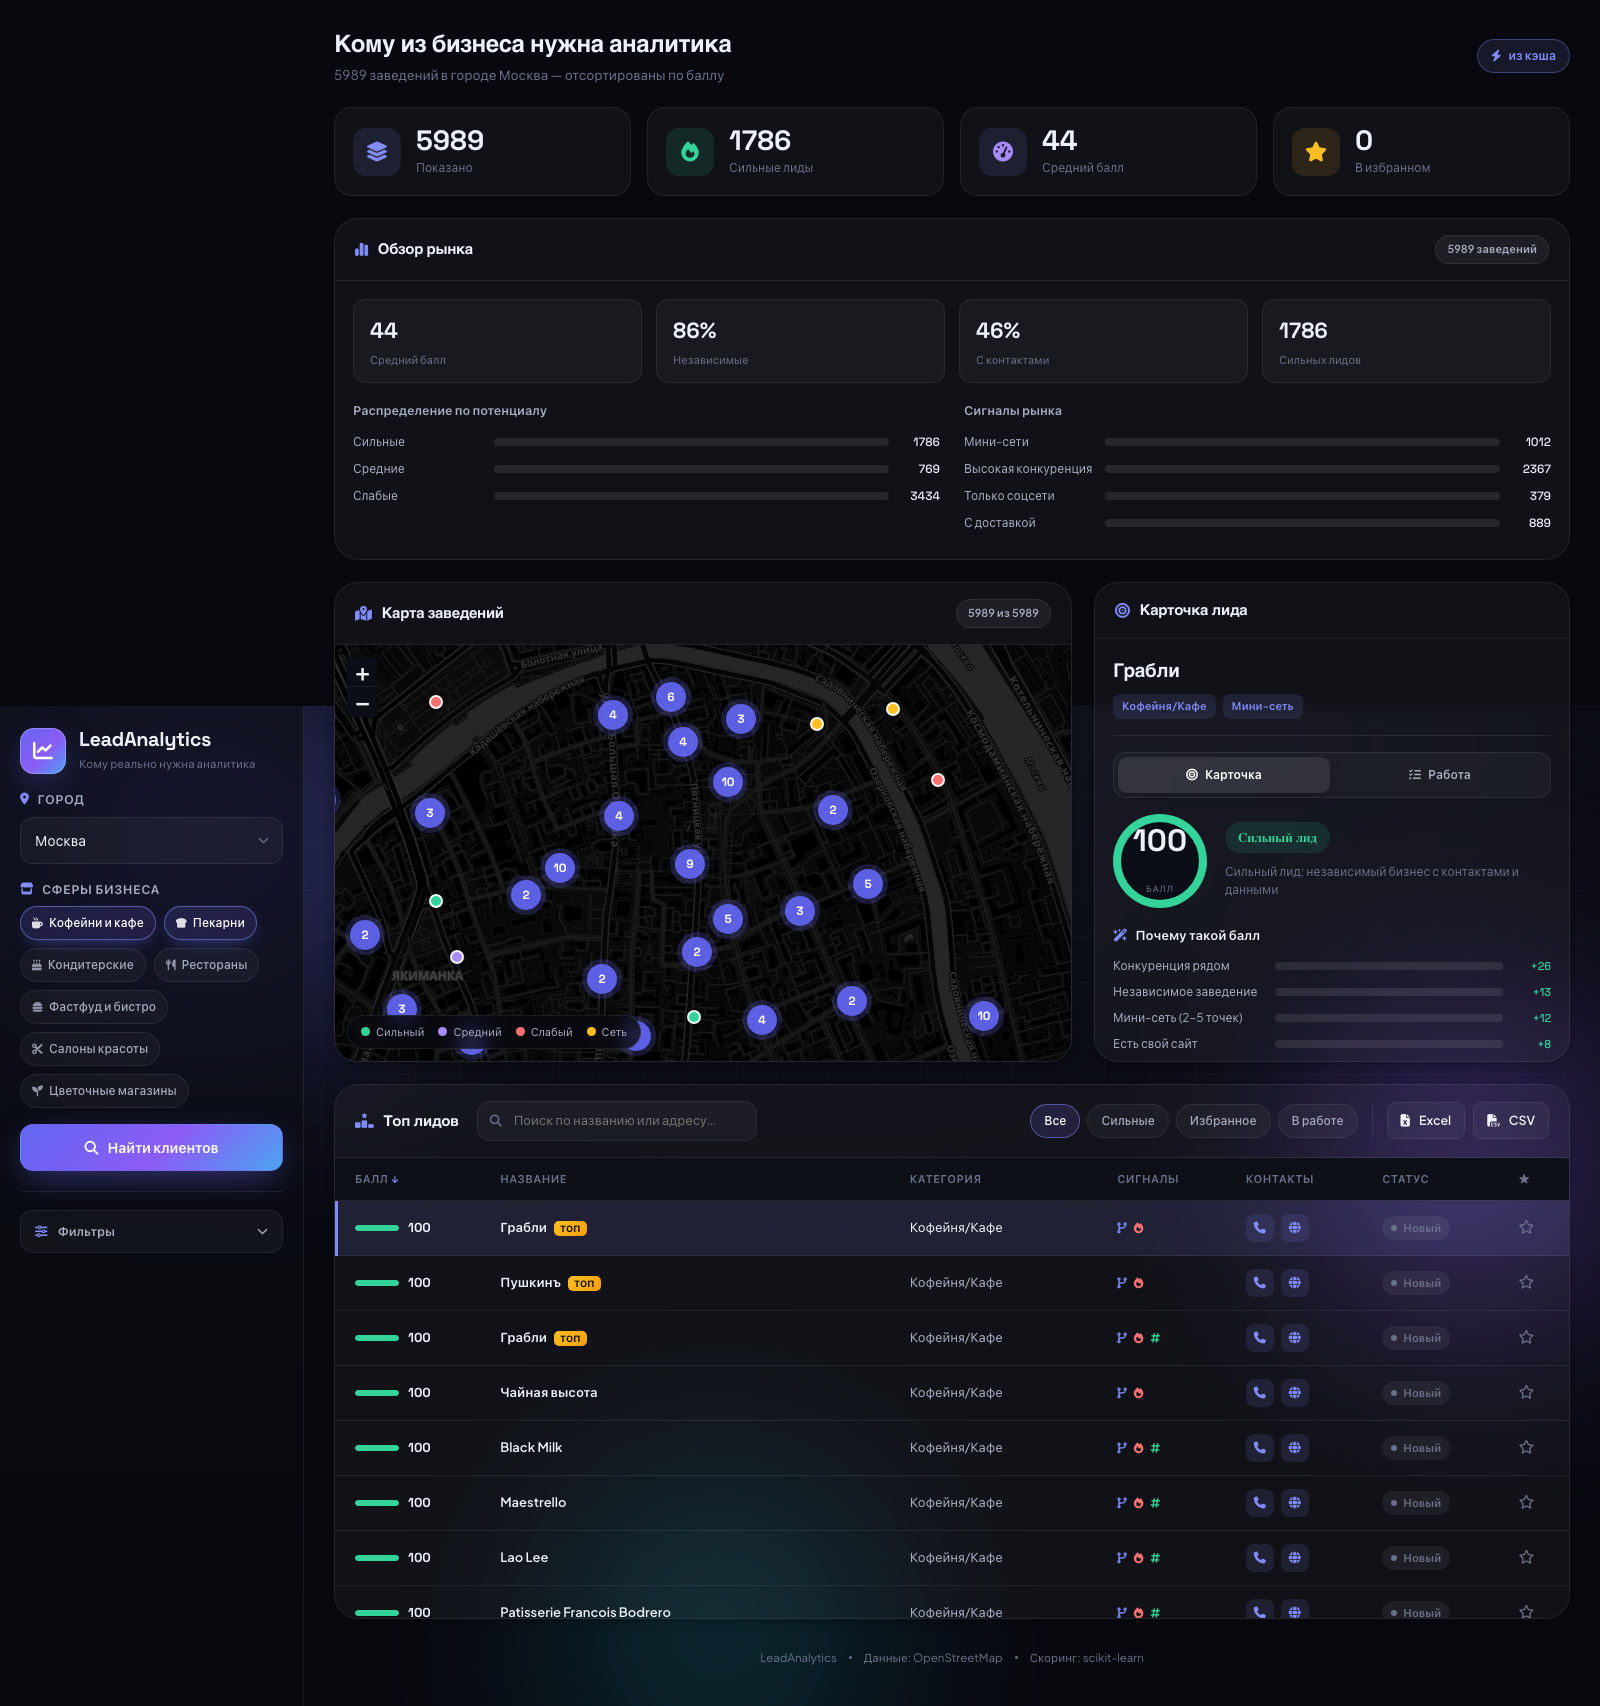
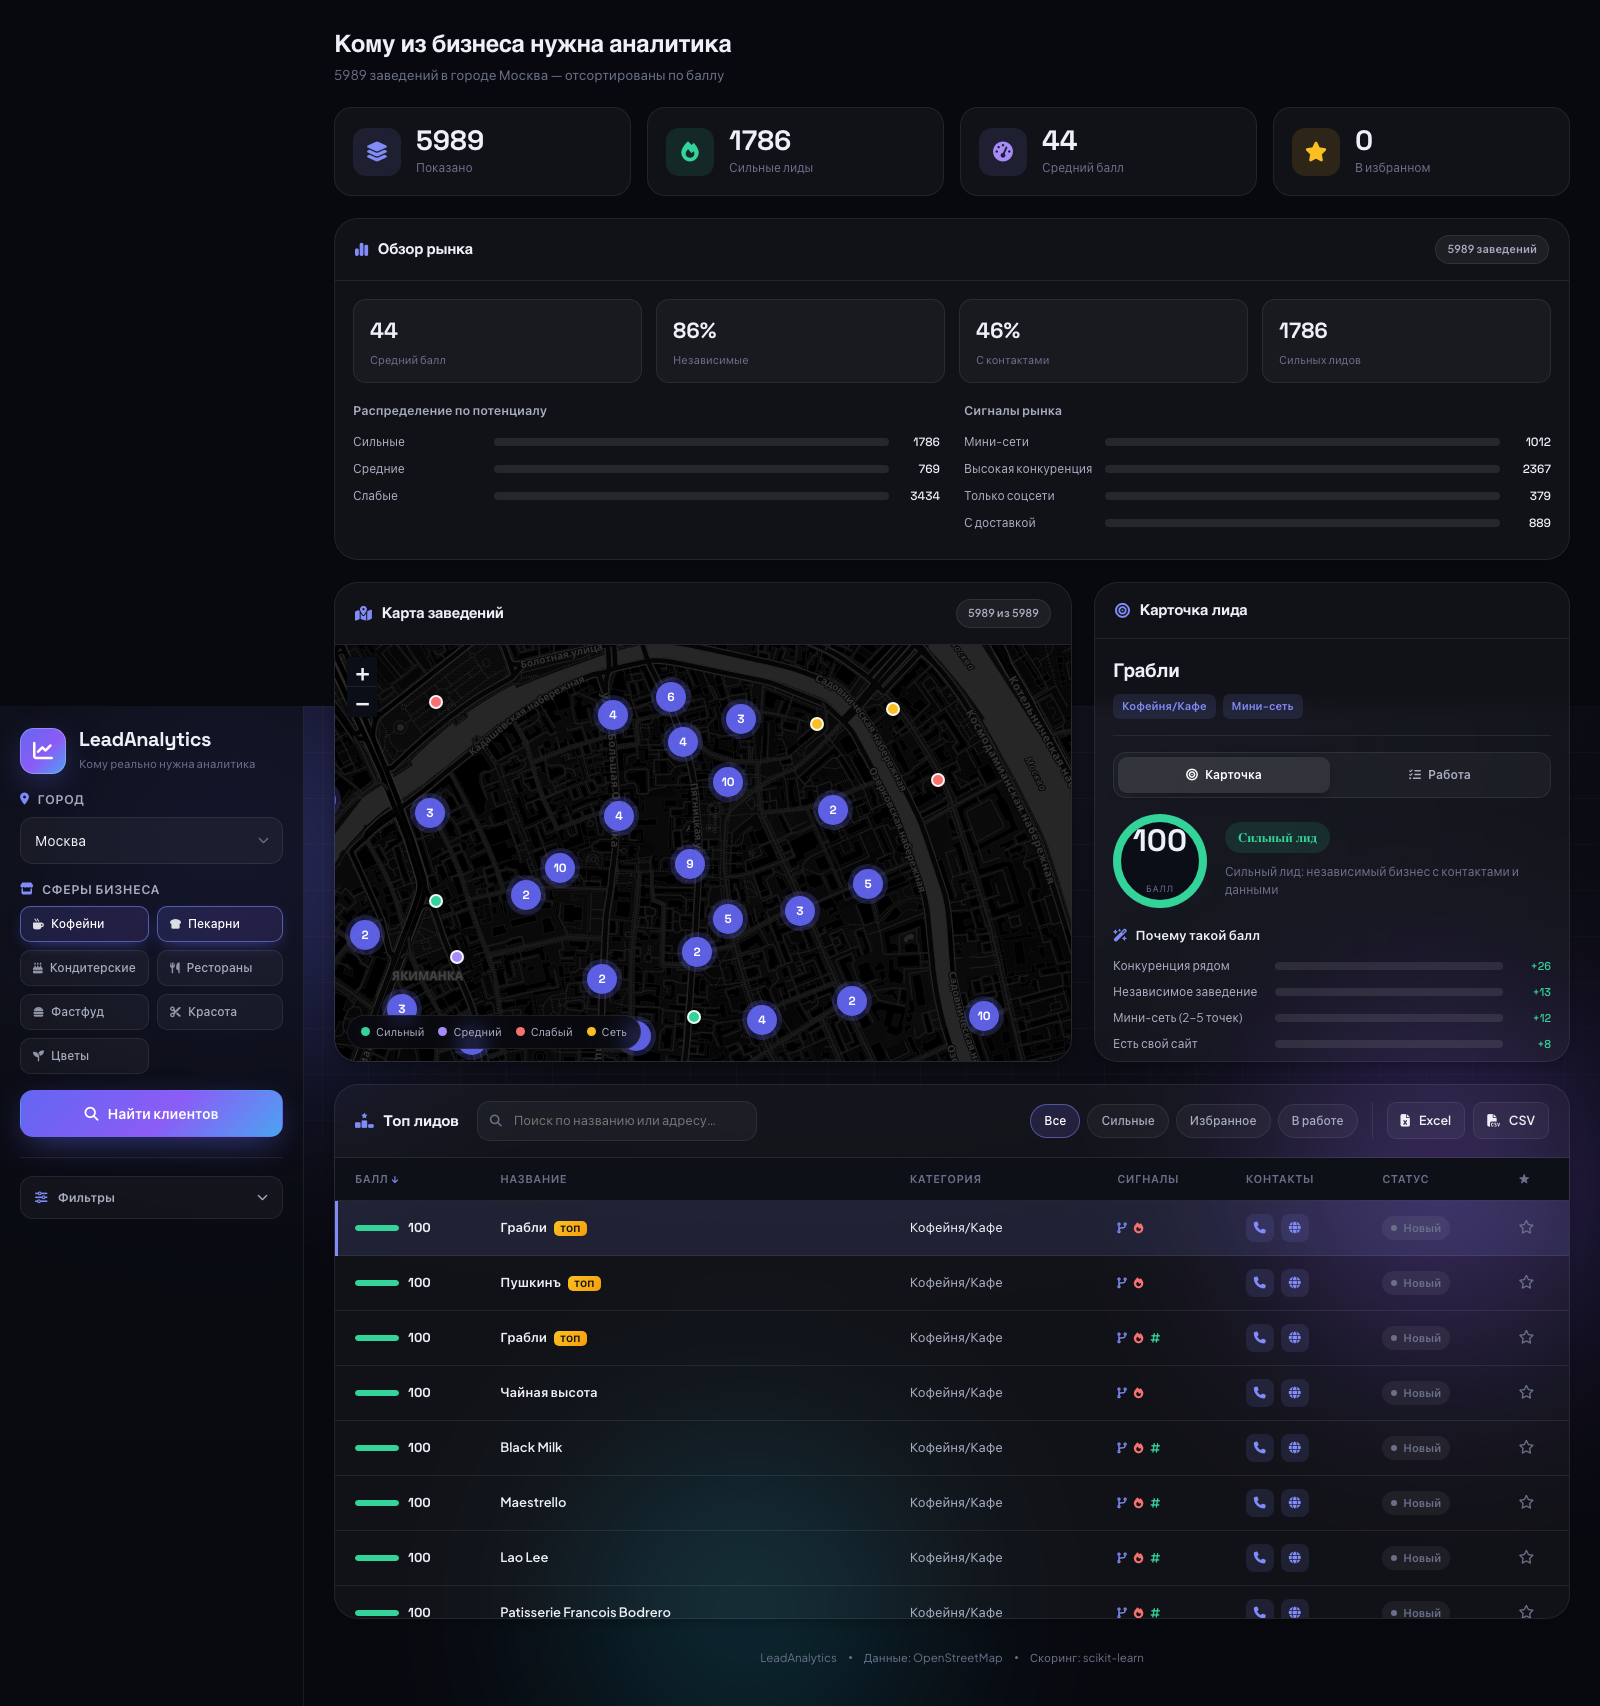
fix(ui): disable static caching, shorten categories, neat 2-column chip grid
- Browser was serving stale style.css/app.js: add Cache-Control: no-store
  for all responses and version assets (?v=3) so updates always show
- Shorten business category labels (Кофейни, Фастфуд, Красота, Цветы…)
- Lay out category chips as an even 2-column grid (no more ragged overlap)

Changed region(s): [[0.0, 0.5281, 0.1875, 0.7145], [0.9062, 0.0, 1.0, 0.0621]]

diff --git a/static/style.css b/static/style.css
@@ -178,11 +178,11 @@ select:hover { border-color: var(--border-strong); background: var(--surface-2);
 select:focus { outline: none; border-color: var(--brand); box-shadow: var(--ring); }
 option { background: #14161f; color: var(--text); }
 
-/* Category chips */
-.chips { display: flex; flex-wrap: wrap; gap: 8px; }
+/* Category chips — ровная сетка 2 колонки */
+.chips { display: grid; grid-template-columns: 1fr 1fr; gap: 8px; }
 .chip {
-    display: inline-flex; align-items: center; gap: 6px;
-    padding: 7px 11px; border-radius: 999px;
+    display: flex; align-items: center; justify-content: flex-start; gap: 7px; width: 100%;
+    padding: 8px 12px; border-radius: 10px;
     background: var(--surface); border: 1px solid var(--border);
     color: var(--text-2); font: inherit; font-size: 12px; font-weight: 500;
     cursor: pointer; transition: var(--t); user-select: none;

diff --git a/static/index.html b/static/index.html
@@ -17,7 +17,7 @@
     <link rel="stylesheet" href="https://unpkg.com/leaflet@1.9.4/dist/leaflet.css" integrity="sha256-p4NxAoJBhIIN+hmNHrzRCf9tD/miZyoHS5obTRR9BMY=" crossorigin=""/>
     <link rel="stylesheet" href="https://unpkg.com/leaflet.markercluster@1.5.3/dist/MarkerCluster.css"/>
     <link rel="stylesheet" href="https://unpkg.com/leaflet.markercluster@1.5.3/dist/MarkerCluster.Default.css"/>
-    <link rel="stylesheet" href="style.css">
+    <link rel="stylesheet" href="style.css?v=3">
 </head>
 <body>
     <div class="aurora" aria-hidden="true">
@@ -219,6 +219,6 @@
 
     <script src="https://unpkg.com/leaflet@1.9.4/dist/leaflet.js" integrity="sha256-20nQCchB9co0qIjJZRGuk2/Z9VM+kNiyxNV1lvTlZBo=" crossorigin=""></script>
     <script src="https://unpkg.com/leaflet.markercluster@1.5.3/dist/leaflet.markercluster.js"></script>
-    <script src="app.js"></script>
+    <script src="app.js?v=3"></script>
 </body>
 </html>

diff --git a/app/constants.py b/app/constants.py
@@ -15,15 +15,15 @@ CITIES: list[dict[str, str]] = [
     {"name": "Владивосток", "latin": "Vladivostok"},
 ]
 
-# Категории бизнеса для UI.
+# Категории бизнеса для UI (короткие подписи для чипов).
 CATEGORIES: list[dict[str, str]] = [
-    {"id": "cafe", "name": "Кофейни и кафе"},
+    {"id": "cafe", "name": "Кофейни"},
     {"id": "bakery", "name": "Пекарни"},
     {"id": "confectionery", "name": "Кондитерские"},
     {"id": "restaurant", "name": "Рестораны"},
-    {"id": "fast_food", "name": "Фастфуд и бистро"},
-    {"id": "beauty", "name": "Салоны красоты"},
-    {"id": "florist", "name": "Цветочные магазины"},
+    {"id": "fast_food", "name": "Фастфуд"},
+    {"id": "beauty", "name": "Красота"},
+    {"id": "florist", "name": "Цветы"},
 ]
 
 # Сопоставление наших категорий с тегами OpenStreetMap (ключ, значение).

diff --git a/app/main.py b/app/main.py
@@ -39,6 +39,13 @@ def create_app() -> FastAPI:
         allow_headers=["*"],
     )
 
+    # Отключаем кэширование статики, чтобы браузер всегда брал свежие JS/CSS.
+    @app.middleware("http")
+    async def _no_store(request, call_next):
+        response = await call_next(request)
+        response.headers["Cache-Control"] = "no-store"
+        return response
+
     # Сначала маршруты API, затем — отдача статики на "/".
     app.include_router(router)
 